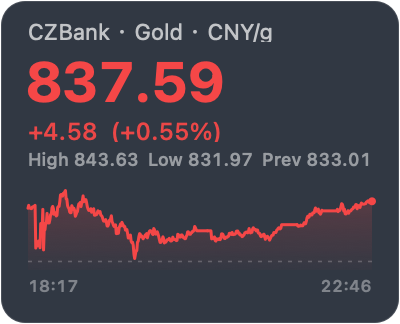
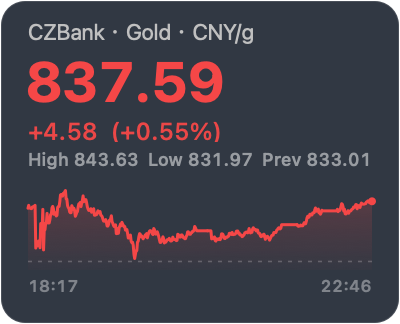
docs: add version badge and fix EN preview CNY/g descender

Changed region(s): [[0.12, 0.0617, 0.69, 0.1543]]

diff --git a/README.md b/README.md
@@ -10,6 +10,7 @@
   <b>简体中文</b> | <a href="README_EN.md">English</a>
 </p>
 
+[![version](https://img.shields.io/badge/version-1.2.0-brightgreen)](https://github.com/realsuperj/gold-ticker/releases/tag/v1.2.0)
 [![CI/CD Release](https://github.com/realsuperj/gold-ticker/actions/workflows/release.yml/badge.svg)](https://github.com/realsuperj/gold-ticker/actions)
 [![License: MIT](https://img.shields.io/badge/License-MIT-yellow.svg)](LICENSE)
 [![Platform](https://img.shields.io/badge/platform-macOS%20%7C%20Windows-blue)](https://github.com/realsuperj/gold-ticker/releases)

diff --git a/README_EN.md b/README_EN.md
@@ -10,6 +10,7 @@
   <a href="README.md">简体中文</a> | <b>English</b>
 </p>
 
+[![version](https://img.shields.io/badge/version-1.2.0-brightgreen)](https://github.com/realsuperj/gold-ticker/releases/tag/v1.2.0)
 [![CI/CD Release](https://github.com/realsuperj/gold-ticker/actions/workflows/release.yml/badge.svg)](https://github.com/realsuperj/gold-ticker/actions)
 [![License: MIT](https://img.shields.io/badge/License-MIT-yellow.svg)](LICENSE)
 [![Platform](https://img.shields.io/badge/platform-macOS%20%7C%20Windows-blue)](https://github.com/realsuperj/gold-ticker/releases)
